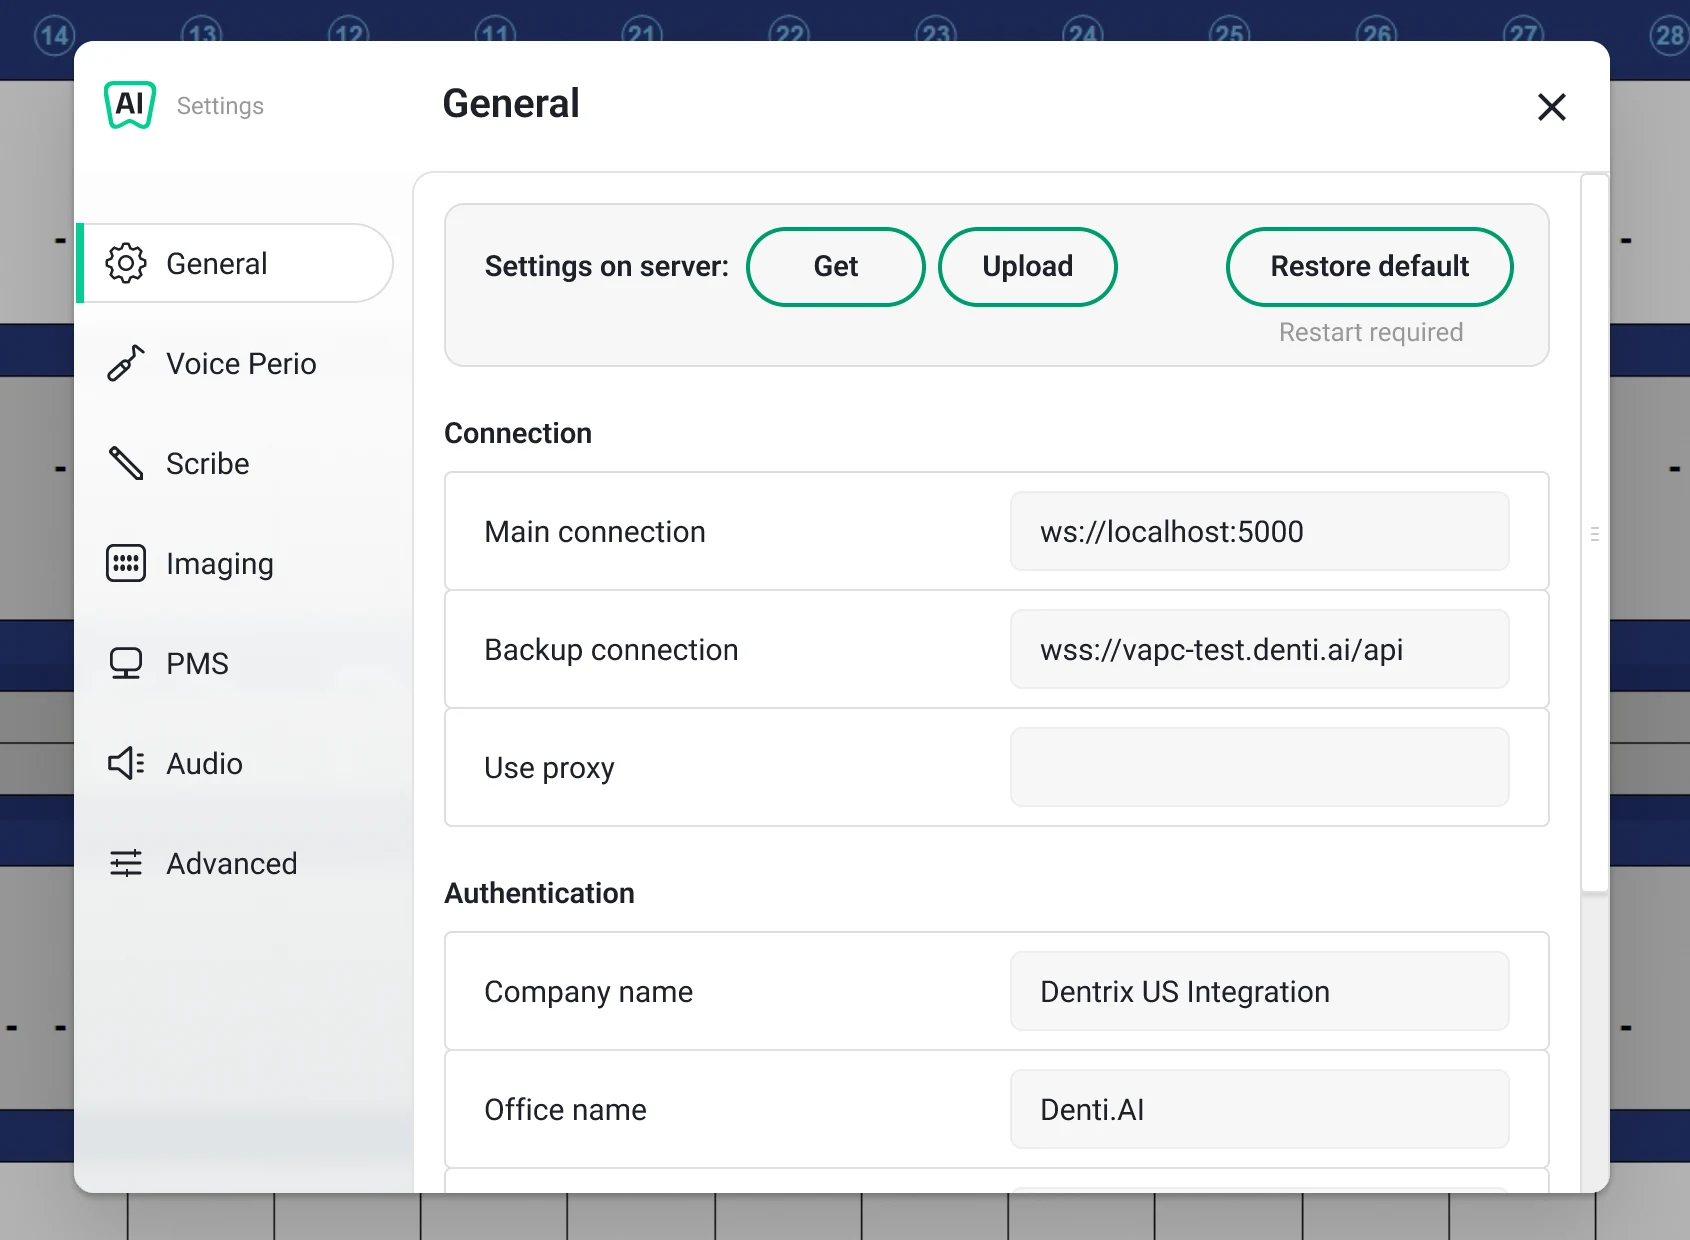
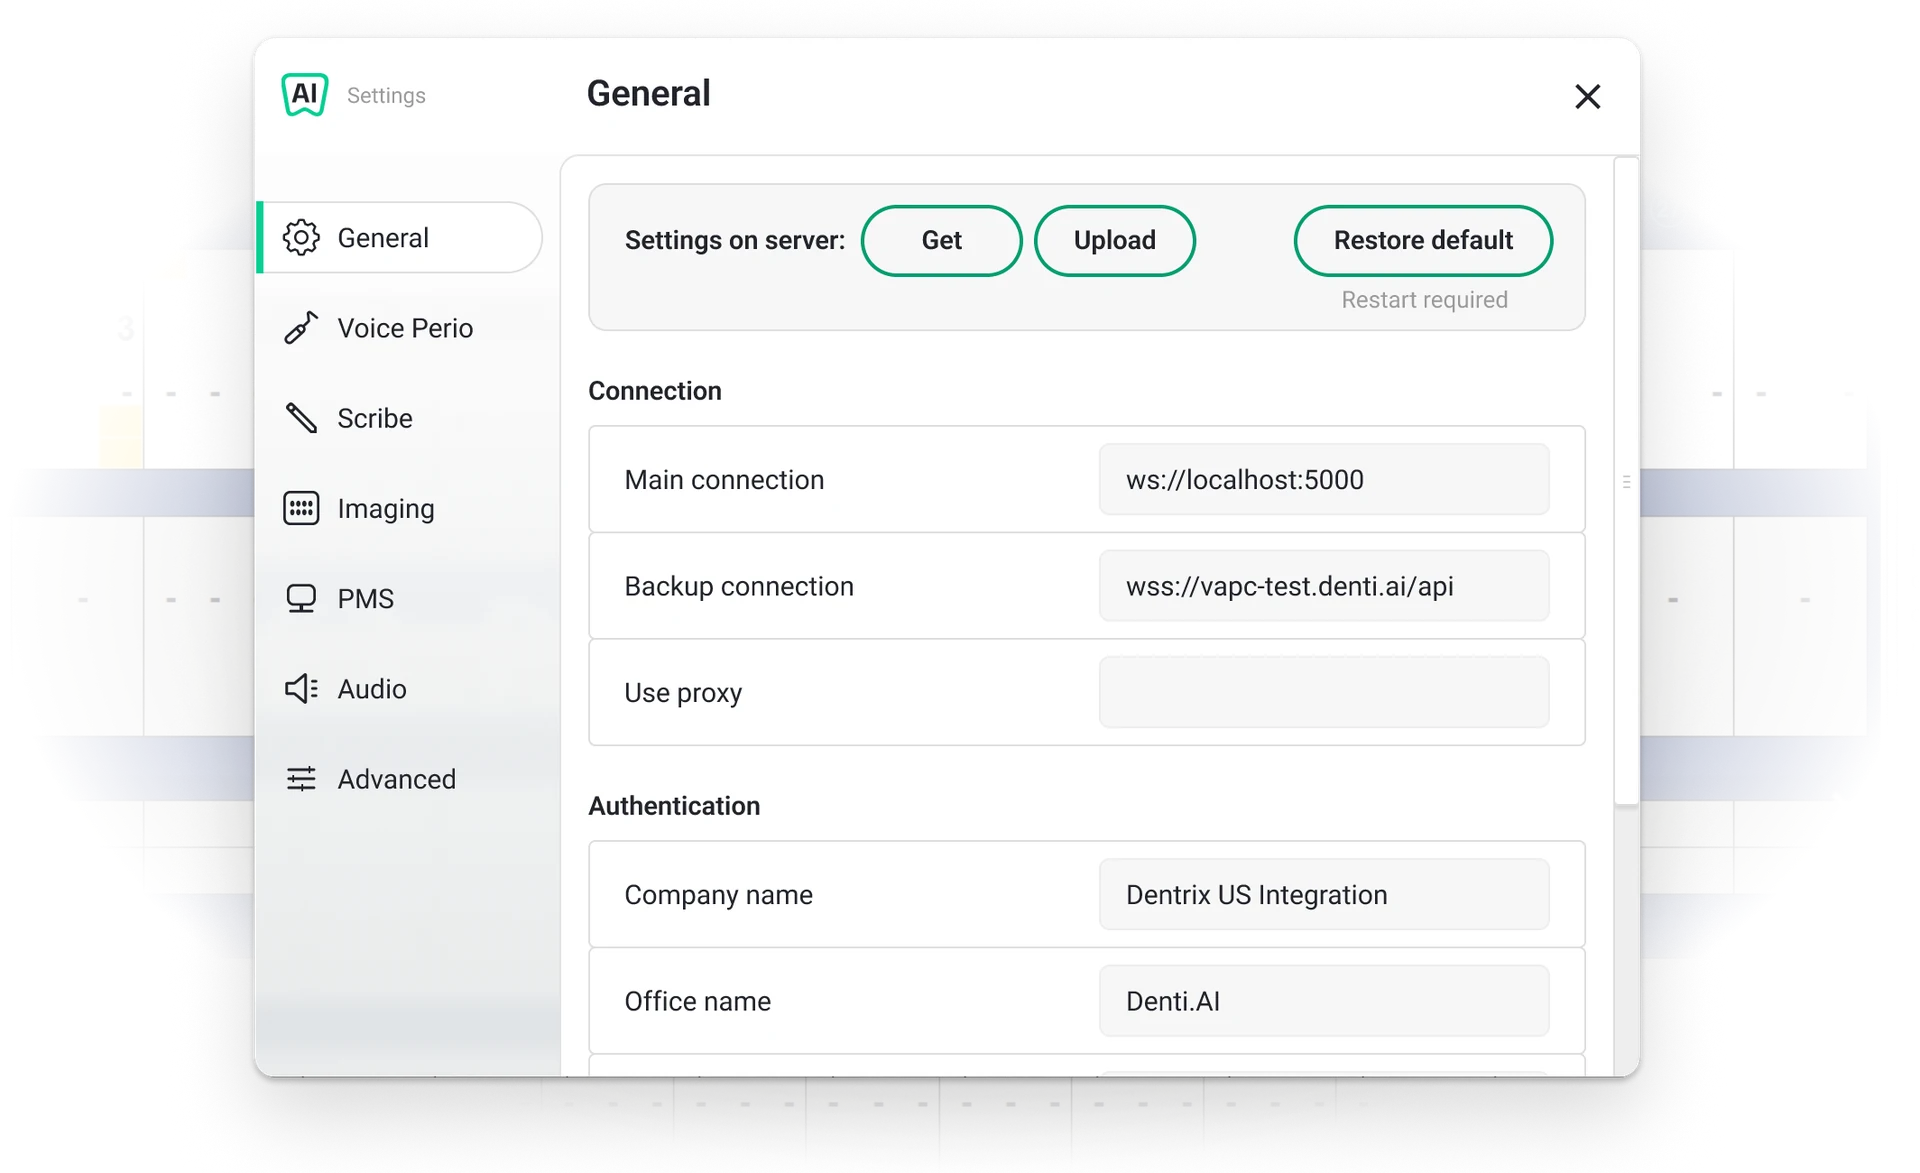
Suite-setup case: 7 new settings screens with their own shadow
Claude-Session: https://claude.ai/code/session_014i5bJiJS2MtanGaxi9N73b

diff --git a/src/styles/global.css b/src/styles/global.css
@@ -419,6 +419,7 @@ body:has(.consent:not([hidden])) .scroll-hint { bottom: calc(32px + var(--consen
 /* Slideshow: frames stacked in one place; the one on screen fades in over the others. */
 .slideshow .zoom { position: relative; overflow: hidden; }
 .slideshow__frame { display: block; }
+.figure .slideshow__frame { background: none; }  /* frames may carry their own transparent shadow */
 .slideshow__frame:not(:first-child) { position: absolute; inset: 0; height: 100%; }
 .slideshow__frame { opacity: 0; transition: opacity 400ms ease; }
 .slideshow__frame.is-on { opacity: 1; }
